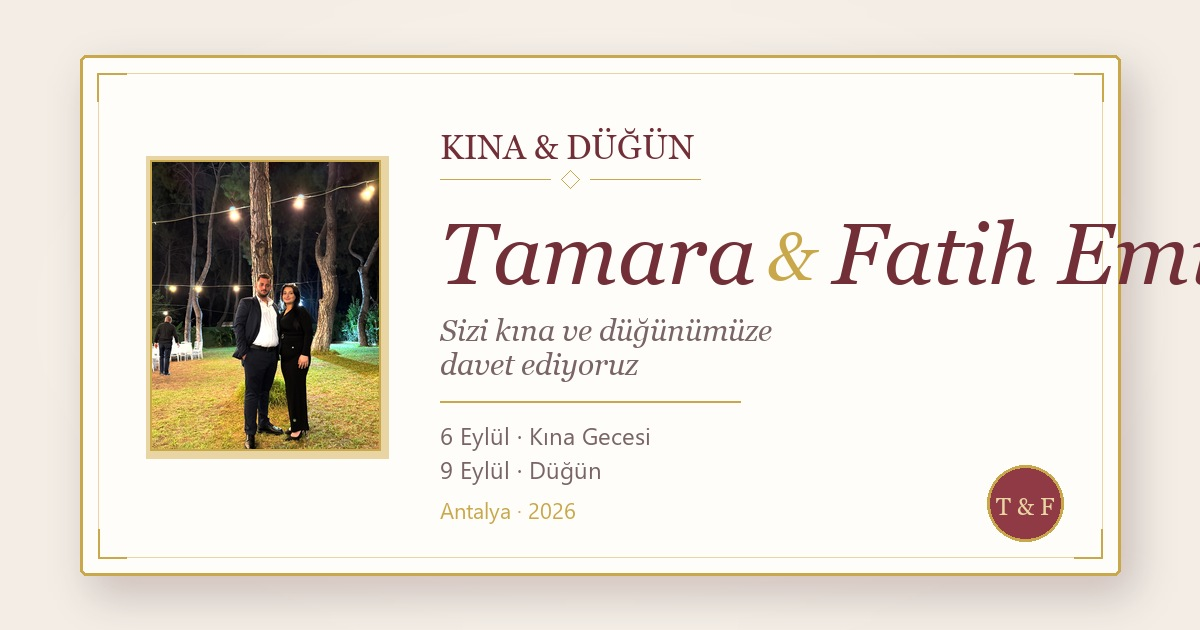
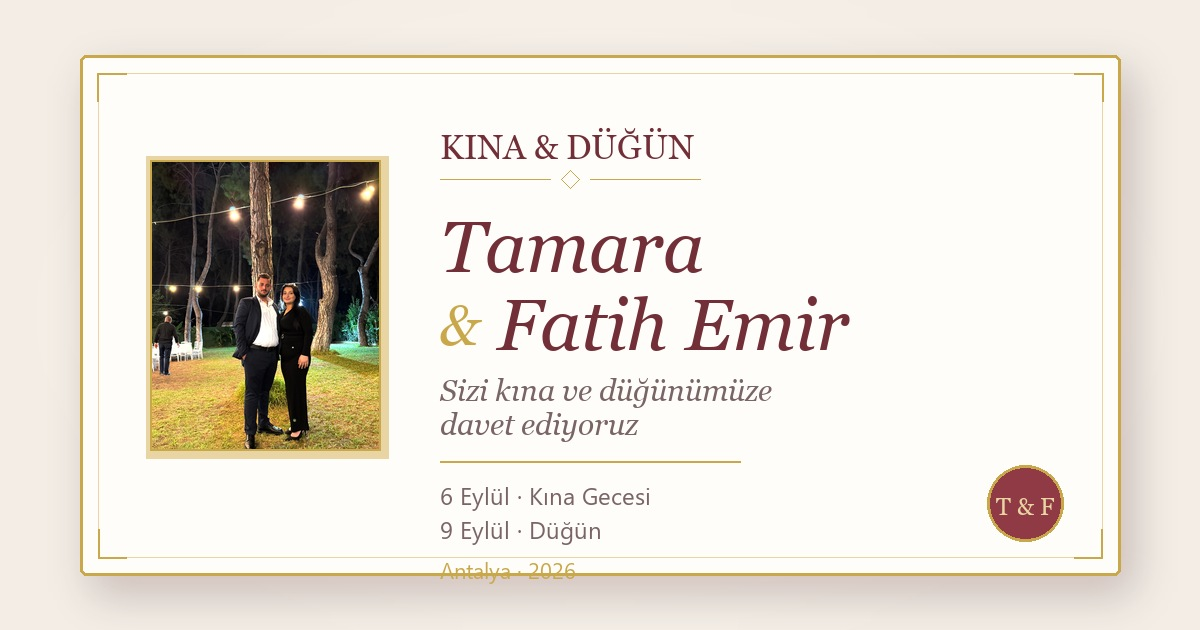
Hediye bolumunu kaldir, konumlari guncelle ve paylasim gorselini duzelt.

Changed region(s): [[0.37, 0.3317, 1.0, 0.9349]]

diff --git a/index.html b/index.html
@@ -205,8 +205,8 @@
                 <div class="program-info">
                   <h3>Kına Gecesi</h3>
                   <p class="program-time">Saat 19:00</p>
-                  <p class="program-venue">Antalya Kına Davet</p>
-                  <p class="program-address">Yeşilbahçe Mah. Çınarlı Cad. No:2/1 Metropol Çarşısı, Muratpaşa/Antalya</p>
+                  <p class="program-venue">Antalya Kına Davet Lara</p>
+                  <p class="program-address">Metropol Çarşısı, Yeşilbahçe, Çınarlı Cd. No:2/1, 07160 Muratpaşa/Antalya</p>
                   <a class="program-link" href="https://maps.apple/p/ZRavy4x.d4g6fB" target="_blank" rel="noopener">Haritada Gör</a>
                 </div>
               </article>
@@ -222,7 +222,7 @@
                   <h3>Düğün</h3>
                   <p class="program-time">Saat 19:00</p>
                   <p class="program-venue">Şura Hall Düğün Salonu</p>
-                  <p class="program-address">Göksu Mah. 6862 Sok. A3 Blok No:7E, Muratpaşa/Antalya</p>
+                  <p class="program-address">Göksu, 6862. Sk. Blok A3 No:7E, 07260 Kepez/Antalya</p>
                   <a class="program-link" href="https://maps.apple/p/ayZTs-AEJXQCcQ" target="_blank" rel="noopener">Haritada Gör</a>
                 </div>
               </article>
@@ -240,25 +240,9 @@
             </p>
           </section>
 
-          <!-- Hediye / destek -->
-          <section class="block block-gift anim" style="--d:5">
-            <h2 class="block-title">Hediye</h2>
-            <p class="block-text">
-              Mutluluğumuzda yanımızda olmanız bizim için en güzel hediye.
-              Destek olmak isterseniz, aşağıdaki hesaba gönderebilirsiniz.
-            </p>
-
-            <div class="gift-card">
-              <p class="gift-card-label">Banka Hesabı</p>
-              <p class="gift-card-name" id="gift-name">Tamara Kutluksaman</p>
-              <p class="gift-card-iban" id="gift-iban">TR49 0004 6000 5688 8000 4354 80</p>
-              <button class="gift-copy-btn" id="gift-copy" type="button">IBAN'ı Kopyala</button>
-            </div>
-          </section>
-
         </div>
 
-        <footer class="sheet-footer anim" style="--d:6">
+        <footer class="sheet-footer anim" style="--d:5">
           <p>6 – 9 Eylül 2026 · Antalya</p>
         </footer>
 

diff --git a/js/main.js b/js/main.js
@@ -7,12 +7,6 @@
   var countdownCelebrated = false;
   var kinaMode = false;
 
-  /* Hediye bilgileri — buradan güncelleyin */
-  var GIFT = {
-    name: 'Tamara Kutluksaman',
-    iban: 'TR49 0004 6000 5688 8000 4354 80'
-  };
-
   var INVITE_TEXT = {
     generic:
       'Sevgili dostlarımız, hayatımızın en güzel günlerine sizleri de davet ediyoruz. ' +
@@ -360,53 +354,6 @@
     cell.innerHTML = '<img src="' + src + '" alt="' + (alt || '') + '" loading="lazy">';
     track.appendChild(cell);
   };
-
-  /* ---- Hediye bölümü ---- */
-  function initGift() {
-    var nameEl = document.getElementById('gift-name');
-    var ibanEl = document.getElementById('gift-iban');
-    var copyBtn = document.getElementById('gift-copy');
-    if (!nameEl || !ibanEl || !copyBtn) return;
-
-    nameEl.textContent = GIFT.name;
-    ibanEl.textContent = GIFT.iban;
-
-    copyBtn.addEventListener('click', function () {
-      var raw = GIFT.iban.replace(/\s/g, '');
-      var done = function () {
-        copyBtn.textContent = 'Kopyalandı ✓';
-        copyBtn.classList.add('copied');
-        setTimeout(function () {
-          copyBtn.textContent = 'IBAN\'ı Kopyala';
-          copyBtn.classList.remove('copied');
-        }, 2000);
-      };
-
-      if (navigator.clipboard && navigator.clipboard.writeText) {
-        navigator.clipboard.writeText(raw).then(done).catch(function () {
-          fallbackCopy(raw, done);
-        });
-      } else {
-        fallbackCopy(raw, done);
-      }
-    });
-  }
-
-  function fallbackCopy(text, cb) {
-    var ta = document.createElement('textarea');
-    ta.value = text;
-    ta.style.position = 'fixed';
-    ta.style.left = '-9999px';
-    document.body.appendChild(ta);
-    ta.select();
-    try {
-      document.execCommand('copy');
-      cb();
-    } catch (e) { /* sessiz */ }
-    document.body.removeChild(ta);
-  }
-
-  initGift();
 
   /* ---- Müzik ---- */
   if (audio) {

diff --git a/scripts/generate_og.py b/scripts/generate_og.py
@@ -19,8 +19,8 @@ def load_fonts():
     try:
         return {
             "label": ImageFont.truetype("C:/Windows/Fonts/georgia.ttf", 34),
-            "names": ImageFont.truetype("C:/Windows/Fonts/georgiai.ttf", 86),
-            "amp": ImageFont.truetype("C:/Windows/Fonts/georgiai.ttf", 68),
+            "names": ImageFont.truetype("C:/Windows/Fonts/georgiai.ttf", 72),
+            "amp": ImageFont.truetype("C:/Windows/Fonts/georgiai.ttf", 56),
             "sub": ImageFont.truetype("C:/Windows/Fonts/georgiai.ttf", 30),
             "event": ImageFont.truetype("C:/Windows/Fonts/segoeui.ttf", 24),
             "date": ImageFont.truetype("C:/Windows/Fonts/segoeui.ttf", 22),
@@ -66,6 +66,22 @@ def draw_wax_seal(draw, cx, cy, r, fonts):
     bbox = draw.textbbox((0, 0), text, font=fonts["seal"])
     tw, th = bbox[2] - bbox[0], bbox[3] - bbox[1]
     draw.text((cx - tw / 2, cy - th / 2 - 2), text, fill=GOLD_LIGHT, font=fonts["seal"])
+
+
+def draw_names_stacked(draw, x, y, left, right, fonts):
+    """İsimleri iki satırda çizer: üstte bir isim, altta & diğer isim."""
+    names_font = fonts["names"]
+    amp_font = fonts["amp"]
+
+    draw.text((x, y), left, fill=BURGUNDY, font=names_font)
+    line_gap = 78
+    y2 = y + line_gap
+
+    amp_w = text_width(draw, "&", amp_font)
+    draw.text((x, y2 + 10), "&", fill=GOLD, font=amp_font)
+    draw.text((x + amp_w + 14, y2), right, fill=BURGUNDY, font=names_font)
+
+    return y2 + 82
 
 
 def main():
@@ -120,21 +136,17 @@ def main():
     draw_ornament(draw, tx + 130, ty + 52, 260, GOLD)
 
     names_y = ty + 78
-    left, amp, right = "Tamara", "&", "Fatih Emir"
-    draw.text((tx, names_y), left, fill=BURGUNDY, font=fonts["names"])
-    ax = tx + text_width(draw, left, fonts["names"]) + 12
-    draw.text((ax, names_y + 12), amp, fill=GOLD, font=fonts["amp"])
-    draw.text((ax + text_width(draw, amp, fonts["amp"]) + 12, names_y), right, fill=BURGUNDY, font=fonts["names"])
+    names_bottom = draw_names_stacked(draw, tx, names_y, "Tamara", "Fatih Emir", fonts)
 
     sub = "Sizi kına ve düğünümüze"
     sub2 = "davet ediyoruz"
-    draw.text((tx, names_y + 108), sub, fill=MUTED, font=fonts["sub"])
-    draw.text((tx, names_y + 142), sub2, fill=MUTED, font=fonts["sub"])
+    draw.text((tx, names_bottom + 8), sub, fill=MUTED, font=fonts["sub"])
+    draw.text((tx, names_bottom + 42), sub2, fill=MUTED, font=fonts["sub"])
 
-    draw.line([(tx, names_y + 196), (tx + 300, names_y + 196)], fill=GOLD, width=2)
-    draw.text((tx, names_y + 214), "6 Eylül · Kına Gecesi", fill=MUTED, font=fonts["event"])
-    draw.text((tx, names_y + 248), "9 Eylül · Düğün", fill=MUTED, font=fonts["event"])
-    draw.text((tx, names_y + 290), "Antalya · 2026", fill=GOLD, font=fonts["date"])
+    draw.line([(tx, names_bottom + 96), (tx + 300, names_bottom + 96)], fill=GOLD, width=2)
+    draw.text((tx, names_bottom + 114), "6 Eylül · Kına Gecesi", fill=MUTED, font=fonts["event"])
+    draw.text((tx, names_bottom + 148), "9 Eylül · Düğün", fill=MUTED, font=fonts["event"])
+    draw.text((tx, names_bottom + 190), "Antalya · 2026", fill=GOLD, font=fonts["date"])
 
     draw_wax_seal(draw, card_x + card_w - 95, card_y + card_h - 72, 38, fonts)
 
